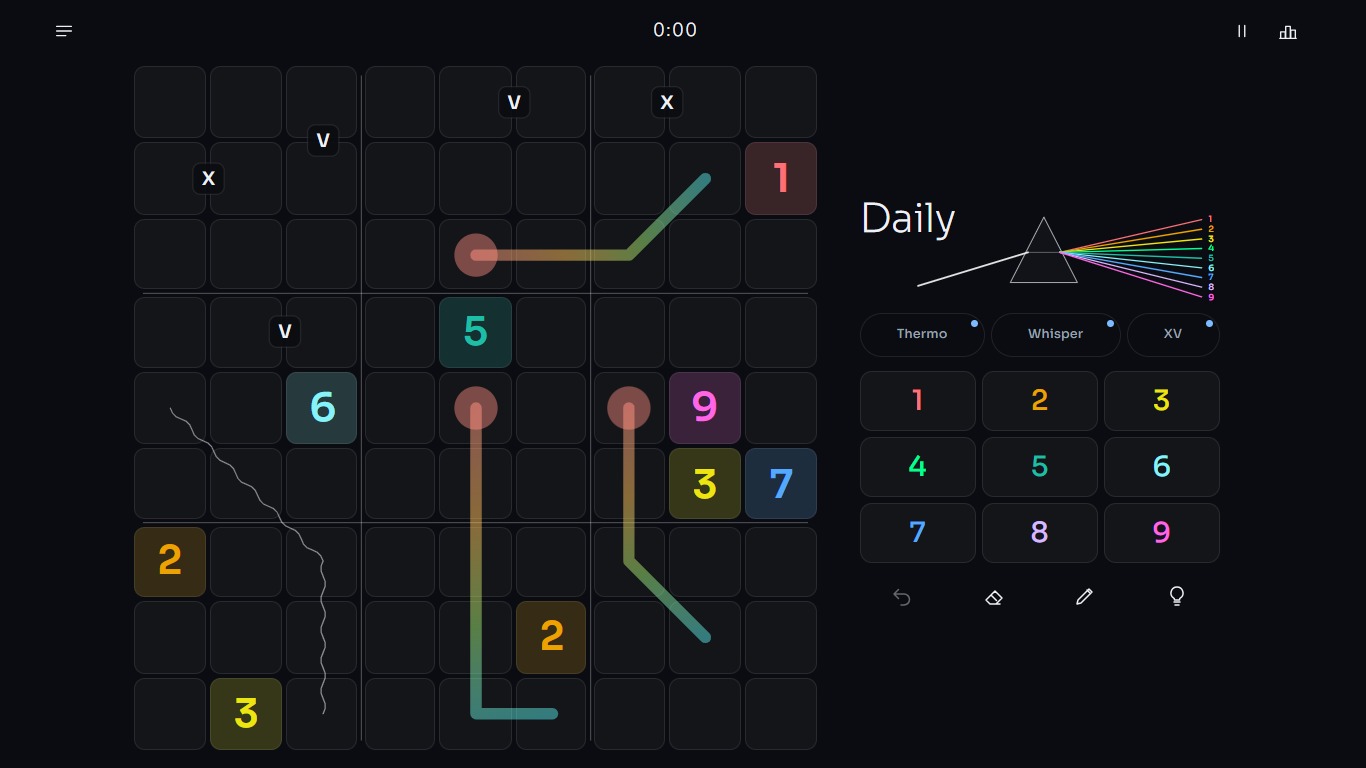
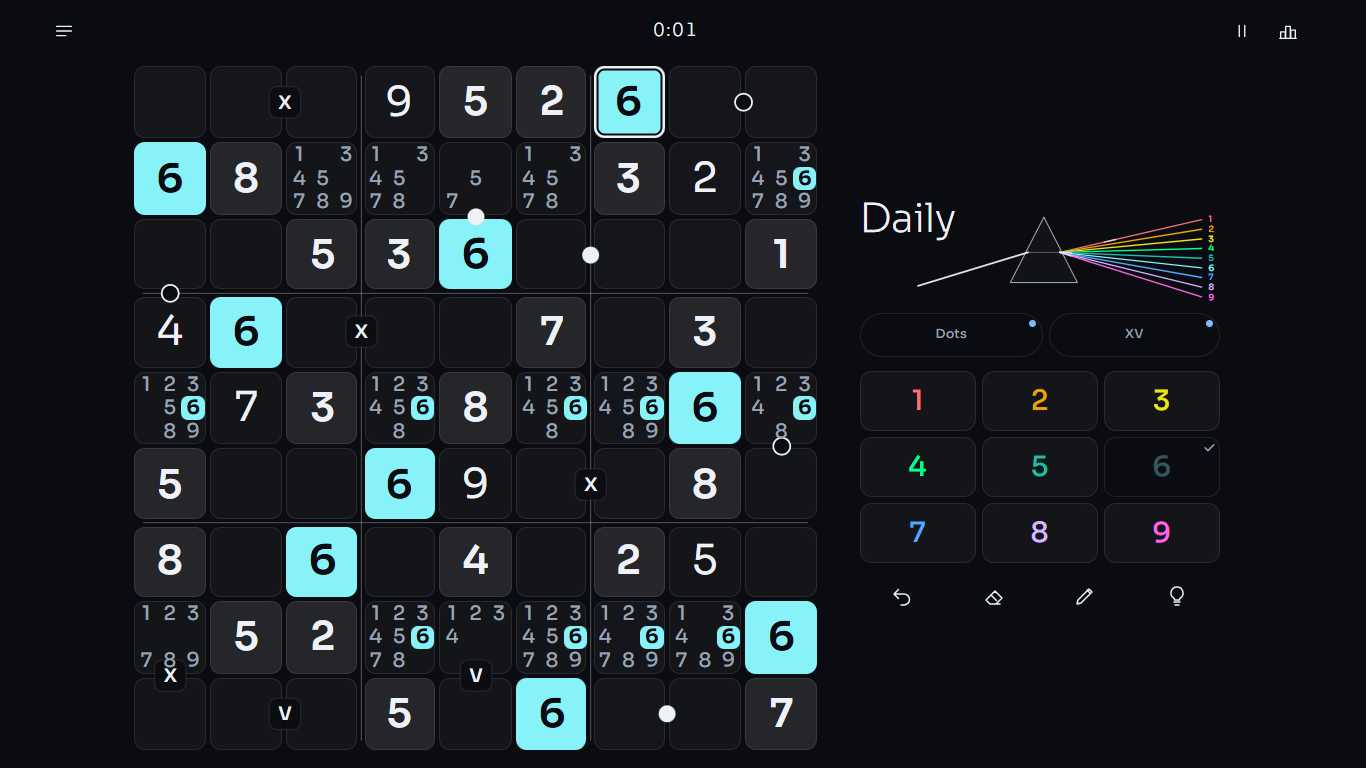
Prism: one ink for every digit, and the picked digit lights up as solid tiles
Digits on the board now share one ink, white in dark and near-black in light, so
the board reads at a glance. The player's digits are weight 400 instead of a thin
300 with a glow, and givens sit on a brighter pane of glass instead of a tint of
their hue. Each digit keeps its colour on its pad key and its ray in the band.

Selecting a cell with a digit turns every cell holding that digit, the selected
one included, into a solid tile of its colour, and its pencil marks into small
tiles of it. The selected tile keeps a frame of the ink, and a wrong digit stays
out. The old highlight, an 8% white tint, read as no change at all on a phone.

contrast.test.ts checks the ink on every cell state, the lit ink on every digit's
hue and how far a lit tile stands from glass. Board.test.tsx pins which cells,
slots and pencil marks light up. README, AGENTS.md and the docs images follow.

diff --git a/src/themes/prism/theme.css b/src/themes/prism/theme.css
@@ -1,6 +1,6 @@
-/* Prism: dark glass cells, white light split into one colour per digit.
-   Digit hues are OKLCH values checked for 4.5:1 or better on their own tinted
-   cell, per mode and per board size. */
+/* Prism: glass cells in white light. Every digit shares one ink, so the board reads at a glance;
+   each digit owns a colour of the split spectrum, shown on the pad, the band, and on the board
+   when that digit is picked. Contrast is checked per mode and board size in contrast.test.ts. */
 
 [data-theme="prism"][data-night="true"] {
   --pr-glass: rgba(255, 255, 255, 0.035);
@@ -11,7 +11,6 @@
   --pr-err: #ff7a7a;
   --pr-fogc: rgba(48, 53, 66, 0.9);
   --pr-beam: rgba(255, 255, 255, 0.88);
-  --pr-tint: 16%;
   --pr-s1: oklch(0.8 0.15 28);
   --pr-s2: oklch(0.85 0.14 75);
   --pr-s3: oklch(0.86 0.17 135);
@@ -22,6 +21,8 @@
   --cb-peer: rgba(255, 255, 255, 0.045);
   --cb-sel: rgba(255, 255, 255, 0.13);
   --cb-same: rgba(255, 255, 255, 0.08);
+  --pr-given: rgba(255, 255, 255, 0.07);
+  --pr-lit-ink: #0a0c11;
   --pr-conflict: rgba(255, 122, 122, 0.16);
 }
 
@@ -34,7 +35,6 @@
   --pr-err: #c62828;
   --pr-fogc: rgba(208, 213, 224, 0.92);
   --pr-beam: rgba(18, 21, 28, 0.75);
-  --pr-tint: 14%;
   --pr-s1: oklch(0.55 0.18 28);
   --pr-s2: oklch(0.57 0.13 70);
   --pr-s3: oklch(0.53 0.15 140);
@@ -45,6 +45,8 @@
   --cb-peer: rgba(10, 12, 17, 0.035);
   --cb-sel: rgba(10, 12, 17, 0.09);
   --cb-same: rgba(10, 12, 17, 0.06);
+  --pr-given: rgba(10, 12, 17, 0.06);
+  --pr-lit-ink: #ffffff;
   --pr-conflict: rgba(198, 40, 40, 0.12);
 }
 
@@ -52,8 +54,8 @@
    pad share them; the board and the band carry data-size too, so either keeps its hues if it is
    drawn outside the play screen. The nine 9x9 hues were searched for the largest smallest
    difference between any two (in OKLab, with and without red-green colour blindness), each kept
-   near its place in the spectrum and at 4.6:1 or better on its own tint, the selected cell and
-   the peer cell. */
+   near its place in the spectrum and at 4.6:1 or better on glass, the selected cell and the peer
+   cell, where a picked digit's pencil marks take its hue. */
 [data-theme="prism"][data-night="true"] :is(.cb-game, .cb-board, .pr-band)[data-size="6"] {
   --h1: oklch(0.78 0.128 28); --h2: oklch(0.84 0.138 75); --h3: oklch(0.84 0.17 135);
   --h4: oklch(0.8 0.136 195); --h5: oklch(0.8 0.102 255); --h6: oklch(0.8 0.148 315);
@@ -186,8 +188,23 @@
   box-shadow: inset 0 0 0 1px var(--pr-edge);
 }
 [data-theme="prism"] .cb-cell.is-peer { background-color: var(--cb-peer); }
-[data-theme="prism"] .cb-cell.is-same { background-color: var(--cb-same); }
+/* The picked digit: every cell holding it lights up as a solid tile of that digit's colour, with
+   the digit in --pr-lit-ink, and the selected one keeps a frame of the ink. */
+[data-theme="prism"] .cb-board[data-same="1"] { --pr-same: var(--h1); }
+[data-theme="prism"] .cb-board[data-same="2"] { --pr-same: var(--h2); }
+[data-theme="prism"] .cb-board[data-same="3"] { --pr-same: var(--h3); }
+[data-theme="prism"] .cb-board[data-same="4"] { --pr-same: var(--h4); }
+[data-theme="prism"] .cb-board[data-same="5"] { --pr-same: var(--h5); }
+[data-theme="prism"] .cb-board[data-same="6"] { --pr-same: var(--h6); }
+[data-theme="prism"] .cb-board[data-same="7"] { --pr-same: var(--h7); }
+[data-theme="prism"] .cb-board[data-same="8"] { --pr-same: var(--h8); }
+[data-theme="prism"] .cb-board[data-same="9"] { --pr-same: var(--h9); }
+[data-theme="prism"] .cb-cell.is-same { background-color: var(--pr-same); box-shadow: none; }
 [data-theme="prism"] .cb-cell.is-sel { background-color: var(--cb-sel); box-shadow: inset 0 0 0 1.5px var(--pr-text); }
+[data-theme="prism"] .cb-cell.is-sel.is-same:not(.is-conflict) {
+  background-color: var(--pr-same);
+  box-shadow: inset 0 0 0 2.5px var(--pr-text), inset 0 0 0 4.5px var(--pr-lit-ink);
+}
 [data-theme="prism"] .cb-cell.is-conflict { background-color: var(--pr-conflict); box-shadow: inset 0 0 0 1.5px var(--pr-err); }
 [data-theme="prism"] .cb-cell.is-focus {
   background-color: color-mix(in oklch, var(--pr-s5) 18%, transparent);
@@ -200,11 +217,12 @@
 }
 [data-theme="prism"] .cb-cell:focus-visible { outline: 2px solid var(--pr-s5); outline-offset: -3px; }
 /* A finished box keeps a brighter glass edge once the spectrum has swept past. */
-[data-theme="prism"] .cb-cell.box-done:not(.is-sel):not(.is-conflict) {
+[data-theme="prism"] .cb-cell.box-done:not(.is-sel):not(.is-same):not(.is-conflict) {
   box-shadow: inset 0 0 0 1px color-mix(in oklch, var(--pr-text) 34%, transparent);
 }
 
-/* Given digits sit on glass tinted with their own hue (drawn in the digit layer). */
+/* Given digits sit on a brighter pane of glass (drawn in the digit layer), which gives way to the
+   colour when their digit is picked. */
 [data-theme="prism"] .cb-slot { position: relative; }
 [data-theme="prism"] .cb-slot::before {
   content: "";
@@ -214,15 +232,7 @@
   pointer-events: none;
 }
 [data-theme="prism"] .cb-slot > .cb-digit { position: relative; }
-[data-theme="prism"] .cb-slot:has(> .cb-digit.is-given.h1)::before { background: color-mix(in oklch, var(--h1) var(--pr-tint), transparent); }
-[data-theme="prism"] .cb-slot:has(> .cb-digit.is-given.h2)::before { background: color-mix(in oklch, var(--h2) var(--pr-tint), transparent); }
-[data-theme="prism"] .cb-slot:has(> .cb-digit.is-given.h3)::before { background: color-mix(in oklch, var(--h3) var(--pr-tint), transparent); }
-[data-theme="prism"] .cb-slot:has(> .cb-digit.is-given.h4)::before { background: color-mix(in oklch, var(--h4) var(--pr-tint), transparent); }
-[data-theme="prism"] .cb-slot:has(> .cb-digit.is-given.h5)::before { background: color-mix(in oklch, var(--h5) var(--pr-tint), transparent); }
-[data-theme="prism"] .cb-slot:has(> .cb-digit.is-given.h6)::before { background: color-mix(in oklch, var(--h6) var(--pr-tint), transparent); }
-[data-theme="prism"] .cb-slot:has(> .cb-digit.is-given.h7)::before { background: color-mix(in oklch, var(--h7) var(--pr-tint), transparent); }
-[data-theme="prism"] .cb-slot:has(> .cb-digit.is-given.h8)::before { background: color-mix(in oklch, var(--h8) var(--pr-tint), transparent); }
-[data-theme="prism"] .cb-slot:has(> .cb-digit.is-given.h9)::before { background: color-mix(in oklch, var(--h9) var(--pr-tint), transparent); }
+[data-theme="prism"] .cb-slot:has(> .cb-digit.is-given):not(.is-same)::before { background: var(--pr-given); }
 
 /* Unit flash: a band of spectrum sweeping across the cell. */
 [data-theme="prism"] .cb-cell.flash-a::after,
@@ -252,27 +262,22 @@
 [data-theme="prism"] .cb-grid .cb-frame { stroke: none; }
 [data-theme="prism"] .cb-grid .cb-thick { stroke: var(--pr-box); stroke-width: 1px; }
 
-/* Digits. */
+/* Digits: one ink, the givens heavier than the player's own. */
 [data-theme="prism"] .cb-digit { font-family: var(--cb-font-digit); font-size: 53cqw; }
 [data-theme="prism"] .cb-board[data-size="9"] .cb-digit { font-size: 52cqw; }
-[data-theme="prism"] .cb-digit.h1 { color: var(--h1); } [data-theme="prism"] .cb-digit.h2 { color: var(--h2); }
-[data-theme="prism"] .cb-digit.h3 { color: var(--h3); } [data-theme="prism"] .cb-digit.h4 { color: var(--h4); }
-[data-theme="prism"] .cb-digit.h5 { color: var(--h5); } [data-theme="prism"] .cb-digit.h6 { color: var(--h6); }
-[data-theme="prism"] .cb-digit.h7 { color: var(--h7); } [data-theme="prism"] .cb-digit.h8 { color: var(--h8); }
-[data-theme="prism"] .cb-digit.h9 { color: var(--h9); }
 [data-theme="prism"] .cb-digit.is-given { font-weight: 600; }
-[data-theme="prism"] .cb-digit.is-mine { font-weight: 300; font-size: 57cqw; }
-[data-theme="prism"][data-night="true"] .cb-digit.is-mine { text-shadow: 0 0 14px color-mix(in oklch, currentColor 55%, transparent); }
-[data-theme="prism"] .cb-digit.is-hint { font-weight: 200; font-size: 57cqw; font-style: normal; }
+[data-theme="prism"] .cb-digit.is-mine { font-weight: 400; font-size: 57cqw; }
+[data-theme="prism"] .cb-digit.is-hint { font-weight: 400; font-size: 57cqw; font-style: normal; }
 [data-theme="prism"] .cb-digit.is-wrong {
   color: var(--cb-wrong);
-  font-weight: 300;
+  font-weight: 400;
   font-size: 57cqw;
   text-decoration: underline wavy;
   text-decoration-thickness: 1.5px;
   text-underline-offset: 0.1em;
 }
 [data-theme="prism"] .cb-board[data-size="9"] .cb-digit:is(.is-mine, .is-hint, .is-wrong) { font-size: 54cqw; }
+[data-theme="prism"] .cb-slot.is-same > .cb-digit { color: var(--pr-lit-ink); font-weight: 650; }
 [data-theme="prism"] .cb-digit.place-a { animation: pr-split-a 0.45s ease-out; }
 [data-theme="prism"] .cb-digit.place-b { animation: pr-split-b 0.45s ease-out; }
 @keyframes pr-split-a {
@@ -295,6 +300,13 @@
 [data-theme="prism"] .cb-board[data-size="4"] .cb-notes { font-size: 18cqw; }
 /* Nine notes share a small cell on 9x9: a little larger so they stay readable on a phone. */
 [data-theme="prism"] .cb-board[data-size="9"] .cb-notes { font-size: 26cqw; font-weight: 500; }
+/* A pencil mark of the picked digit lights up as a small tile of its colour. */
+[data-theme="prism"] .cb-note.on.is-same {
+  border-radius: 30%;
+  background: var(--pr-same);
+  color: var(--pr-lit-ink);
+  font-weight: 700;
+}
 
 /* Clues. */
 [data-theme="prism"] .cb-clue { transition: filter 0.35s ease; }

diff --git a/src/themes/contrast.test.ts b/src/themes/contrast.test.ts
@@ -1,7 +1,9 @@
 // Text contrast of every theme and mode, read straight from the stylesheets.
 // Interface text needs 4.5:1 on the page ground. Prism's digits and notes need
-// 4.5:1 on its glass cells: a digit on its own tint, the selected cell and the
-// peer cell, and a note on plain glass and on those same cells.
+// 4.5:1 on its glass cells: the ink on plain glass, a given's pane and the
+// selected and peer cells, a digit's hue (its pad key) and the grey notes on
+// glass and the selected and peer cells, and the lit ink on every digit's hue,
+// where a picked digit's cells and pencil marks light up.
 import { describe, expect, it } from 'vitest';
 import { contrast, oklabDistance, over, parseColor, resolve, rootVars, sizeVars, themeCss } from '../test/cssvars';
 import type { Rgba } from '../test/cssvars';
@@ -39,26 +41,40 @@ describe('Prism on glass', () => {
     const glass = over(colour(env, '--pr-glass'), ground);
     const sel = over(colour(env, '--cb-sel'), glass);
     const peer = over(colour(env, '--cb-peer'), glass);
-    const same = over(colour(env, '--cb-same'), glass);
+    const given = over(colour(env, '--pr-given'), glass);
+    // Every digit's hue per board size: its pad key, and the tile its lit cells and pencil marks become.
+    const hues = (size: number) => {
+      const hue = { ...env, ...sizeVars(src, 'prism', night, size) };
+      return Array.from({ length: size }, (_, i) => ({ name: `h${i + 1} on ${size}x${size}`, c: colour(hue, `--h${i + 1}`) }));
+    };
 
-    it(`${label}: every digit hue on its own tinted glass, selected and peer cells`, () => {
-      const tint = parseFloat(resolve('--pr-tint', env) ?? '14') / 100;
-      for (const size of [4, 6, 9]) {
-        const hue = { ...env, ...sizeVars(src, 'prism', night, size) };
-        for (let i = 1; i <= size; i++) {
-          const c = colour(hue, `--h${i}`);
-          const tinted = over([c[0], c[1], c[2], tint], glass);
-          for (const bg of [tinted, sel, peer]) {
-            expect(contrast(c, bg), `${label} h${i} on ${size}x${size}`).toBeGreaterThanOrEqual(4.5);
-          }
-        }
-      }
+    it(`${label}: the ink on glass, a given's pane and the selected and peer cells`, () => {
+      const ink = colour(env, '--pr-text');
+      for (const bg of [glass, given, sel, peer]) expect(contrast(ink, bg), label).toBeGreaterThanOrEqual(4.5);
       expect(contrast(colour(env, '--pr-err', ground), glass)).toBeGreaterThanOrEqual(4.5);
     });
 
-    it(`${label}: notes on glass, selected, peer and same-digit cells`, () => {
+    it(`${label}: every digit hue on glass, the selected and peer cells`, () => {
+      for (const size of [4, 6, 9]) {
+        for (const h of hues(size)) for (const bg of [glass, sel, peer]) expect(contrast(h.c, bg), `${label} ${h.name}`).toBeGreaterThanOrEqual(4.5);
+      }
+    });
+
+    it(`${label}: a lit tile stands far clear of the glass and keeps its digit readable`, () => {
+      const ink = colour(env, '--pr-lit-ink');
+      for (const size of [4, 6, 9]) {
+        for (const h of hues(size)) {
+          expect(contrast(ink, h.c), `${label} ${h.name}`).toBeGreaterThanOrEqual(4.5);
+          expect(oklabDistance(h.c, glass), `${label} ${h.name}`).toBeGreaterThanOrEqual(0.3);
+        }
+      }
+      // A given's pane is plainly brighter glass, so givens read apart from the player's digits.
+      expect(oklabDistance(given, glass), label).toBeGreaterThanOrEqual(0.04);
+    });
+
+    it(`${label}: notes on glass, the selected and peer cells`, () => {
       const note = colour(env, '--cb-note', glass);
-      for (const bg of [glass, sel, peer, same]) expect(contrast(note, bg), label).toBeGreaterThanOrEqual(4.5);
+      for (const bg of [glass, sel, peer]) expect(contrast(note, bg), label).toBeGreaterThanOrEqual(4.5);
     });
 
     it(`${label}: every two digit hues on one board are clearly different`, () => {

diff --git a/src/board/Board.tsx b/src/board/Board.tsx
@@ -98,6 +98,8 @@ function BoardImpl(props: BoardProps) {
   const selC = selected === null ? -1 : selected % n;
   const selB = selected === null ? -1 : geo.regionOf(selected);
   const selD = selected === null || hidden?.[selected] ? 0 : full[selected];
+  // The digit the selection holds: every cell and pencil mark with it lights up, the selected cell too.
+  const sameD = highlights ? selD : 0;
 
   // Keep keyboard focus on the selected cell when it moves.
   useEffect(() => {
@@ -127,11 +129,13 @@ function BoardImpl(props: BoardProps) {
     const style: VarStyle | undefined = inFlash ? { '--d': flash[i] } : undefined;
     const noteList: number[] = [];
     if (!d && !isHidden) for (let k = 1; k <= n; k++) if (notes[i] & (1 << k)) noteList.push(k);
+    // A wrong digit keeps its own mark rather than lighting up with the right ones.
+    const same = !!sameD && d === sameD && !(wrong[i] && !given);
 
     let cls = 'cb-cell' + edges[i];
     if (i === selected) cls += ' is-sel';
     else if (highlights && selected !== null && (r === selR || c === selC || b === selB)) cls += ' is-peer';
-    if (highlights && selD && d === selD && i !== selected) cls += ' is-same';
+    if (same) cls += ' is-same';
     if (conflict[i] && !isHidden) cls += ' is-conflict';
     if (given) cls += ' is-given';
     if (focusSet.has(i)) cls += ' is-focus';
@@ -159,6 +163,7 @@ function BoardImpl(props: BoardProps) {
     if (inFlash) slotCls += ` ${flashCls}`;
     if (done.has(b)) slotCls += ' box-done';
     if (i === selected) slotCls += ' is-sel';
+    if (same) slotCls += ' is-same';
     let inner = null;
     if (d) {
       const kind = given ? 'given' : wrong[i] ? 'wrong' : hinted?.[i] ? 'hint' : 'mine';
@@ -173,7 +178,7 @@ function BoardImpl(props: BoardProps) {
       inner = (
         <span className="cb-notes" aria-hidden="true">
           {Array.from({ length: n }, (_, k) => (
-            <span key={k} className={notes[i] & (1 << (k + 1)) ? 'cb-note on' : 'cb-note'}>
+            <span key={k} className={notes[i] & (1 << (k + 1)) ? (k + 1 === sameD ? 'cb-note on is-same' : 'cb-note on') : 'cb-note'}>
               {k + 1}
             </span>
           ))}
@@ -194,7 +199,7 @@ function BoardImpl(props: BoardProps) {
 
   const boardStyle: VarStyle = { '--cb-n': n, '--cb-note-cols': noteCols };
   return (
-    <div className={`cb-board${solved ? ' is-solved' : ''}`} data-size={n} style={boardStyle}>
+    <div className={`cb-board${solved ? ' is-solved' : ''}`} data-size={n} data-same={sameD || undefined} style={boardStyle}>
       <div className="cb-cells" ref={cellsRef} role="group" aria-label="Board">
         {cells}
       </div>

diff --git a/src/board/Board.test.tsx b/src/board/Board.test.tsx
@@ -84,6 +84,44 @@ describe('board under fog', () => {
   });
 });
 
+describe('the picked digit', () => {
+  // LYRA gives a 2 at cells 17 and 33. The player has a right 2 at 0 and a wrong one at 1, and
+  // pencil marks 2 and 4 in cell 2, 4 and 5 in cell 3.
+  function board(selected: number | null, highlights = true): BoardProps {
+    const p = props(LYRA);
+    const values = p.values.slice();
+    values[0] = 2;
+    values[1] = 2;
+    const wrong = p.wrong.slice();
+    wrong[1] = true;
+    const notes = p.notes.slice();
+    notes[2] = (1 << 2) | (1 << 4);
+    notes[3] = (1 << 4) | (1 << 5);
+    return { ...p, values, wrong, notes, selected, highlights };
+  }
+  const lit = (el: HTMLElement, sel: string) => [...el.querySelectorAll(sel)].map((e) => [...e.parentElement!.children].indexOf(e));
+
+  it('lights every cell holding it, the selected one too, and its pencil marks', async () => {
+    const el = await render(board(17));
+    expect(el.querySelector('.cb-board')!.getAttribute('data-same')).toBe('2');
+    expect(lit(el, '.cb-cell.is-same')).toEqual([0, 17, 33]);
+    expect(lit(el, '.cb-slot.is-same')).toEqual([0, 17, 33]);
+    const marks = el.querySelectorAll('.cb-note.is-same');
+    expect(marks).toHaveLength(1);
+    expect(marks[0].textContent).toBe('2');
+    expect(marks[0].closest('.cb-slot')).toBe(el.querySelectorAll('.cb-slot')[2]);
+  });
+
+  it('lights nothing for an empty cell, and nothing with highlights off', async () => {
+    for (const p of [board(2), board(17, false)]) {
+      const el = await render(p);
+      expect(el.querySelector('.cb-board')!.hasAttribute('data-same')).toBe(false);
+      expect(el.querySelectorAll('.is-same')).toHaveLength(0);
+      host?.remove();
+    }
+  });
+});
+
 describe('grid, finished boxes and clue layers', () => {
   it('draws the box lines and the frame', async () => {
     const el = await render(props(LYRA));

diff --git a/AGENTS.md b/AGENTS.md
@@ -61,7 +61,8 @@ Run the unit tests, typecheck, build and e2e before calling a change done.
 - Saved settings that name any other look load as Prism, and so does a player who never picked a look. Loading an older save writes the setting back as Prism (`sanitizeSettings`, settings version 3, under the same `cellbound:v1:settings` key).
 - A band must look complete with an empty `subtitle`, since only a Daily from an earlier day passes its date. A band that sets the title large declares `bandShowsTitle`, so the top bar keeps its copy for screen readers only.
 - Cells, digit slots and fog cells carry `edge-l`, `edge-r`, `edge-t` and `edge-b` on the sides that face another box.
-- `src/themes/contrast.test.ts` checks Prism's digit hues per board size for contrast and for a clear difference between any two (0.1 in OKLab), and its notes for contrast on every cell state.
+- Digits share one ink, so colour on the board means the picked digit. Selecting a cell with a digit sets `data-same` on `.cb-board` and `is-same` on every cell, digit slot and pencil mark holding that digit, the selected cell included and a wrong digit left out. Prism turns those cells and pencil marks into solid tiles of the digit's hue with the digit in `--pr-lit-ink`, and frames the selected one in the ink. A faint tint was tried first and read as no change at all on a phone.
+- `src/themes/contrast.test.ts` checks Prism's ink on every cell state, its digit hues per board size on glass and for a clear difference between any two (0.1 in OKLab), the lit ink on every hue and how far a lit tile stands from plain glass, and its notes for contrast.
 
 ## Layout
 

diff --git a/README.md b/README.md
@@ -44,7 +44,7 @@ A hint comes in three steps for the same deduction. The first shows where to loo
 
 ## Look
 
-Cellbound has one look, Prism, in a light and a dark version. Digits sit on glass cells, each digit in its own spectrum colour, under a band where a beam of white light splits into one ray per digit. On Auto the light or dark version follows your device, and Settings can keep either one.
+Cellbound has one look, Prism, in a light and a dark version. Digits sit on glass cells in a single ink, so the board reads at a glance, under a band where a beam of white light splits into one ray per digit. Each digit owns the colour of its ray, which also marks its key on the pad. Select a cell with a digit and every cell holding that digit lights up in its colour, along with the matching pencil marks. On Auto the light or dark version follows your device, and Settings can keep either one.
 
 Prism honours reduced motion, from the device or from Settings.
 
